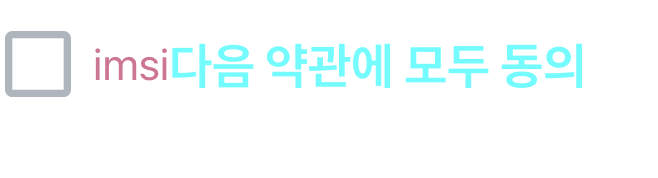
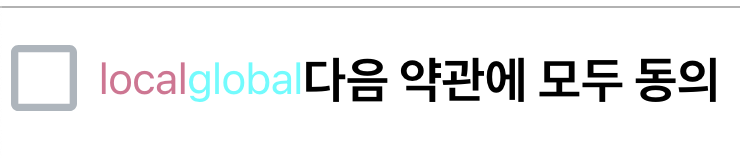
fix CSS Module.md

Changed region(s): [[0.0, 0.1519, 0.9726, 0.7089], [0.0, 0.0253, 1.0, 0.0506]]

diff --git a/25.CSS Module.md b/25.CSS Module.md
@@ -71,8 +71,9 @@ const CheckBox = ({ children, checked, ...rest }) => {
           {checked ? <MdCheckBox /> : <MdCheckBoxOutlineBlank />}
         </div>
       </label>
-      <p className={cx("make-this-local")}>imsi</p>
-      <span className="aqua">{children}</span>{/*글로벌 스타일을 적용할 수 있음*/}
+      <p className={cx("make-this-local")}>local</p>
+      <p className="aqua">global</p>{/*글로벌 스타일을 적용할 수 있음*/}
+      <span>{children}</span>
     </div>
   );
 };
